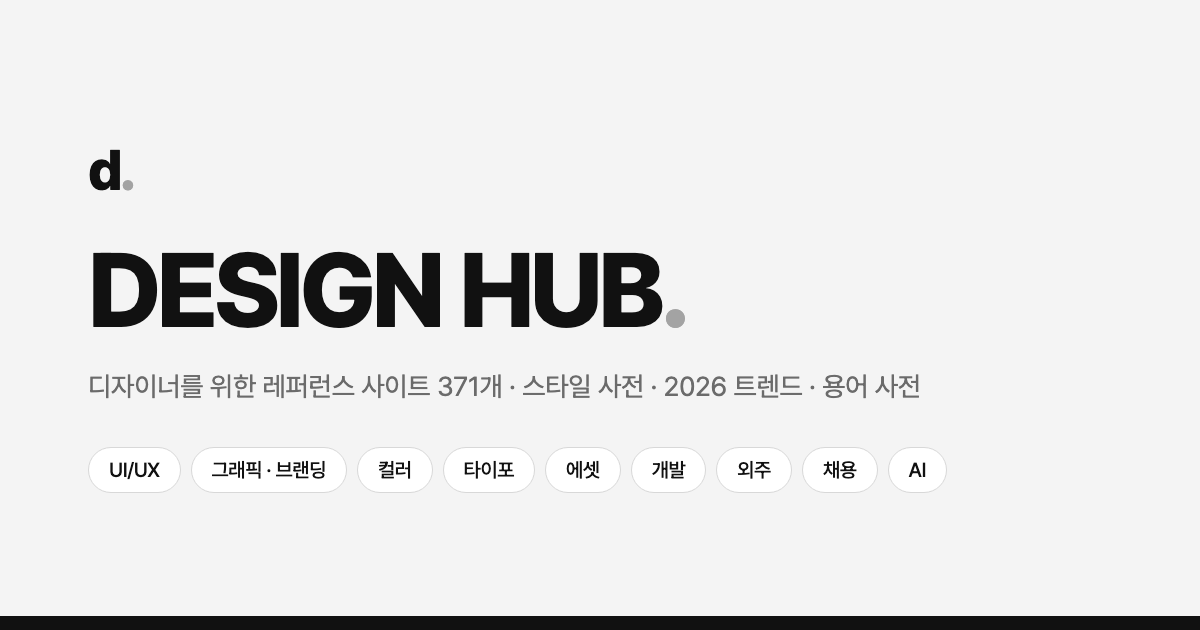
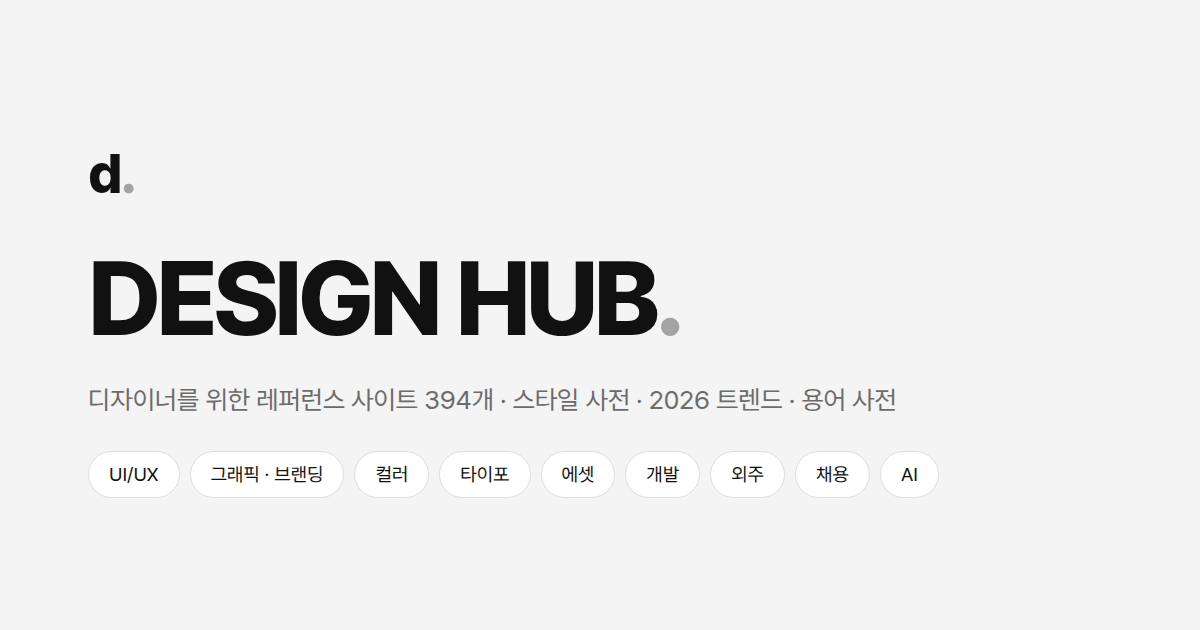
사이트 대표 공유 이미지를 실제 사이트 수(394개)로 갱신, 수가 바뀌면 자동으로 다시 찍기
Claude-Session: https://claude.ai/code/session_01QvBoepEJ1Hcks869d2pz6t

diff --git a/tools/build-og.py b/tools/build-og.py
@@ -58,11 +58,50 @@ LANGS = {
 }
 
 
+# 사이트 대표 이미지 (og-image.png). 사이트 수가 바뀌면 다시 찍습니다.
+HOME = """<!doctype html><html lang="ko"><head><meta charset="utf-8">
+<link rel="stylesheet" href="https://cdn.jsdelivr.net/gh/orioncactus/pretendard@v1.3.9/dist/web/variable/pretendardvariable-dynamic-subset.min.css">
+<style>
+  html, body {{ margin: 0; width: 1200px; height: 630px; overflow: hidden; background: #F4F4F4; }}
+  body {{ font-family: "Pretendard Variable", Pretendard, "Apple SD Gothic Neo", sans-serif; color: #111;
+         -webkit-font-smoothing: antialiased; }}
+  .card {{ box-sizing: border-box; width: 1200px; height: 630px; padding: 146px 88px 0; position: relative; }}
+  .dot {{ color: #A3A3A3; }}
+  .logo {{ font-size: 56px; font-weight: 800; letter-spacing: -0.04em; line-height: 1; }}
+  .name {{ margin-top: 44px; font-size: 104px; font-weight: 800; letter-spacing: -0.05em; line-height: 1; }}
+  .desc {{ margin-top: 34px; font-size: 26px; color: #6B6B6B; letter-spacing: -0.01em; }}
+  .chips {{ margin-top: 36px; display: flex; gap: 10px; }}
+  .chips span {{ font-size: 19px; padding: 11px 20px; border: 1px solid #DDD; border-radius: 999px; background: #fff; }}
+</style></head><body><div class="card">
+  <div class="logo">d<span class="dot">.</span></div>
+  <div class="name">DESIGN HUB<span class="dot">.</span></div>
+  <div class="desc">디자이너를 위한 레퍼런스 사이트 {count}개 · 스타일 사전 · 2026 트렌드 · 용어 사전</div>
+  <div class="chips"><span>UI/UX</span><span>그래픽 · 브랜딩</span><span>컬러</span><span>타이포</span><span>에셋</span><span>개발</span><span>외주</span><span>채용</span><span>AI</span></div>
+</div></body></html>"""
+
+
+def home_card(tmp, redo):
+    import sitedata as D
+    count = len(D.sites)
+    stamp = OUT / ".home-count"
+    png = ROOT / "og-image.png"
+    if png.exists() and not redo and stamp.exists() and stamp.read_text().strip() == str(count):
+        return None
+    page = pathlib.Path(tmp) / "home.html"
+    page.write_text(HOME.format(count=count), encoding="utf-8")
+    shoot(page, png)
+    stamp.write_text(f"{count}\n")
+    return f"og-image.png (사이트 {count}개)"
+
+
 def main():
     redo = "--all" in sys.argv
     OUT.mkdir(exist_ok=True)
     made = []
     with tempfile.TemporaryDirectory() as tmp:
+        home = home_card(tmp, redo)
+        if home:
+            made.append(home)
         for lang, L in LANGS.items():
             L["out"].mkdir(exist_ok=True)
             for x in A.load(lang):
